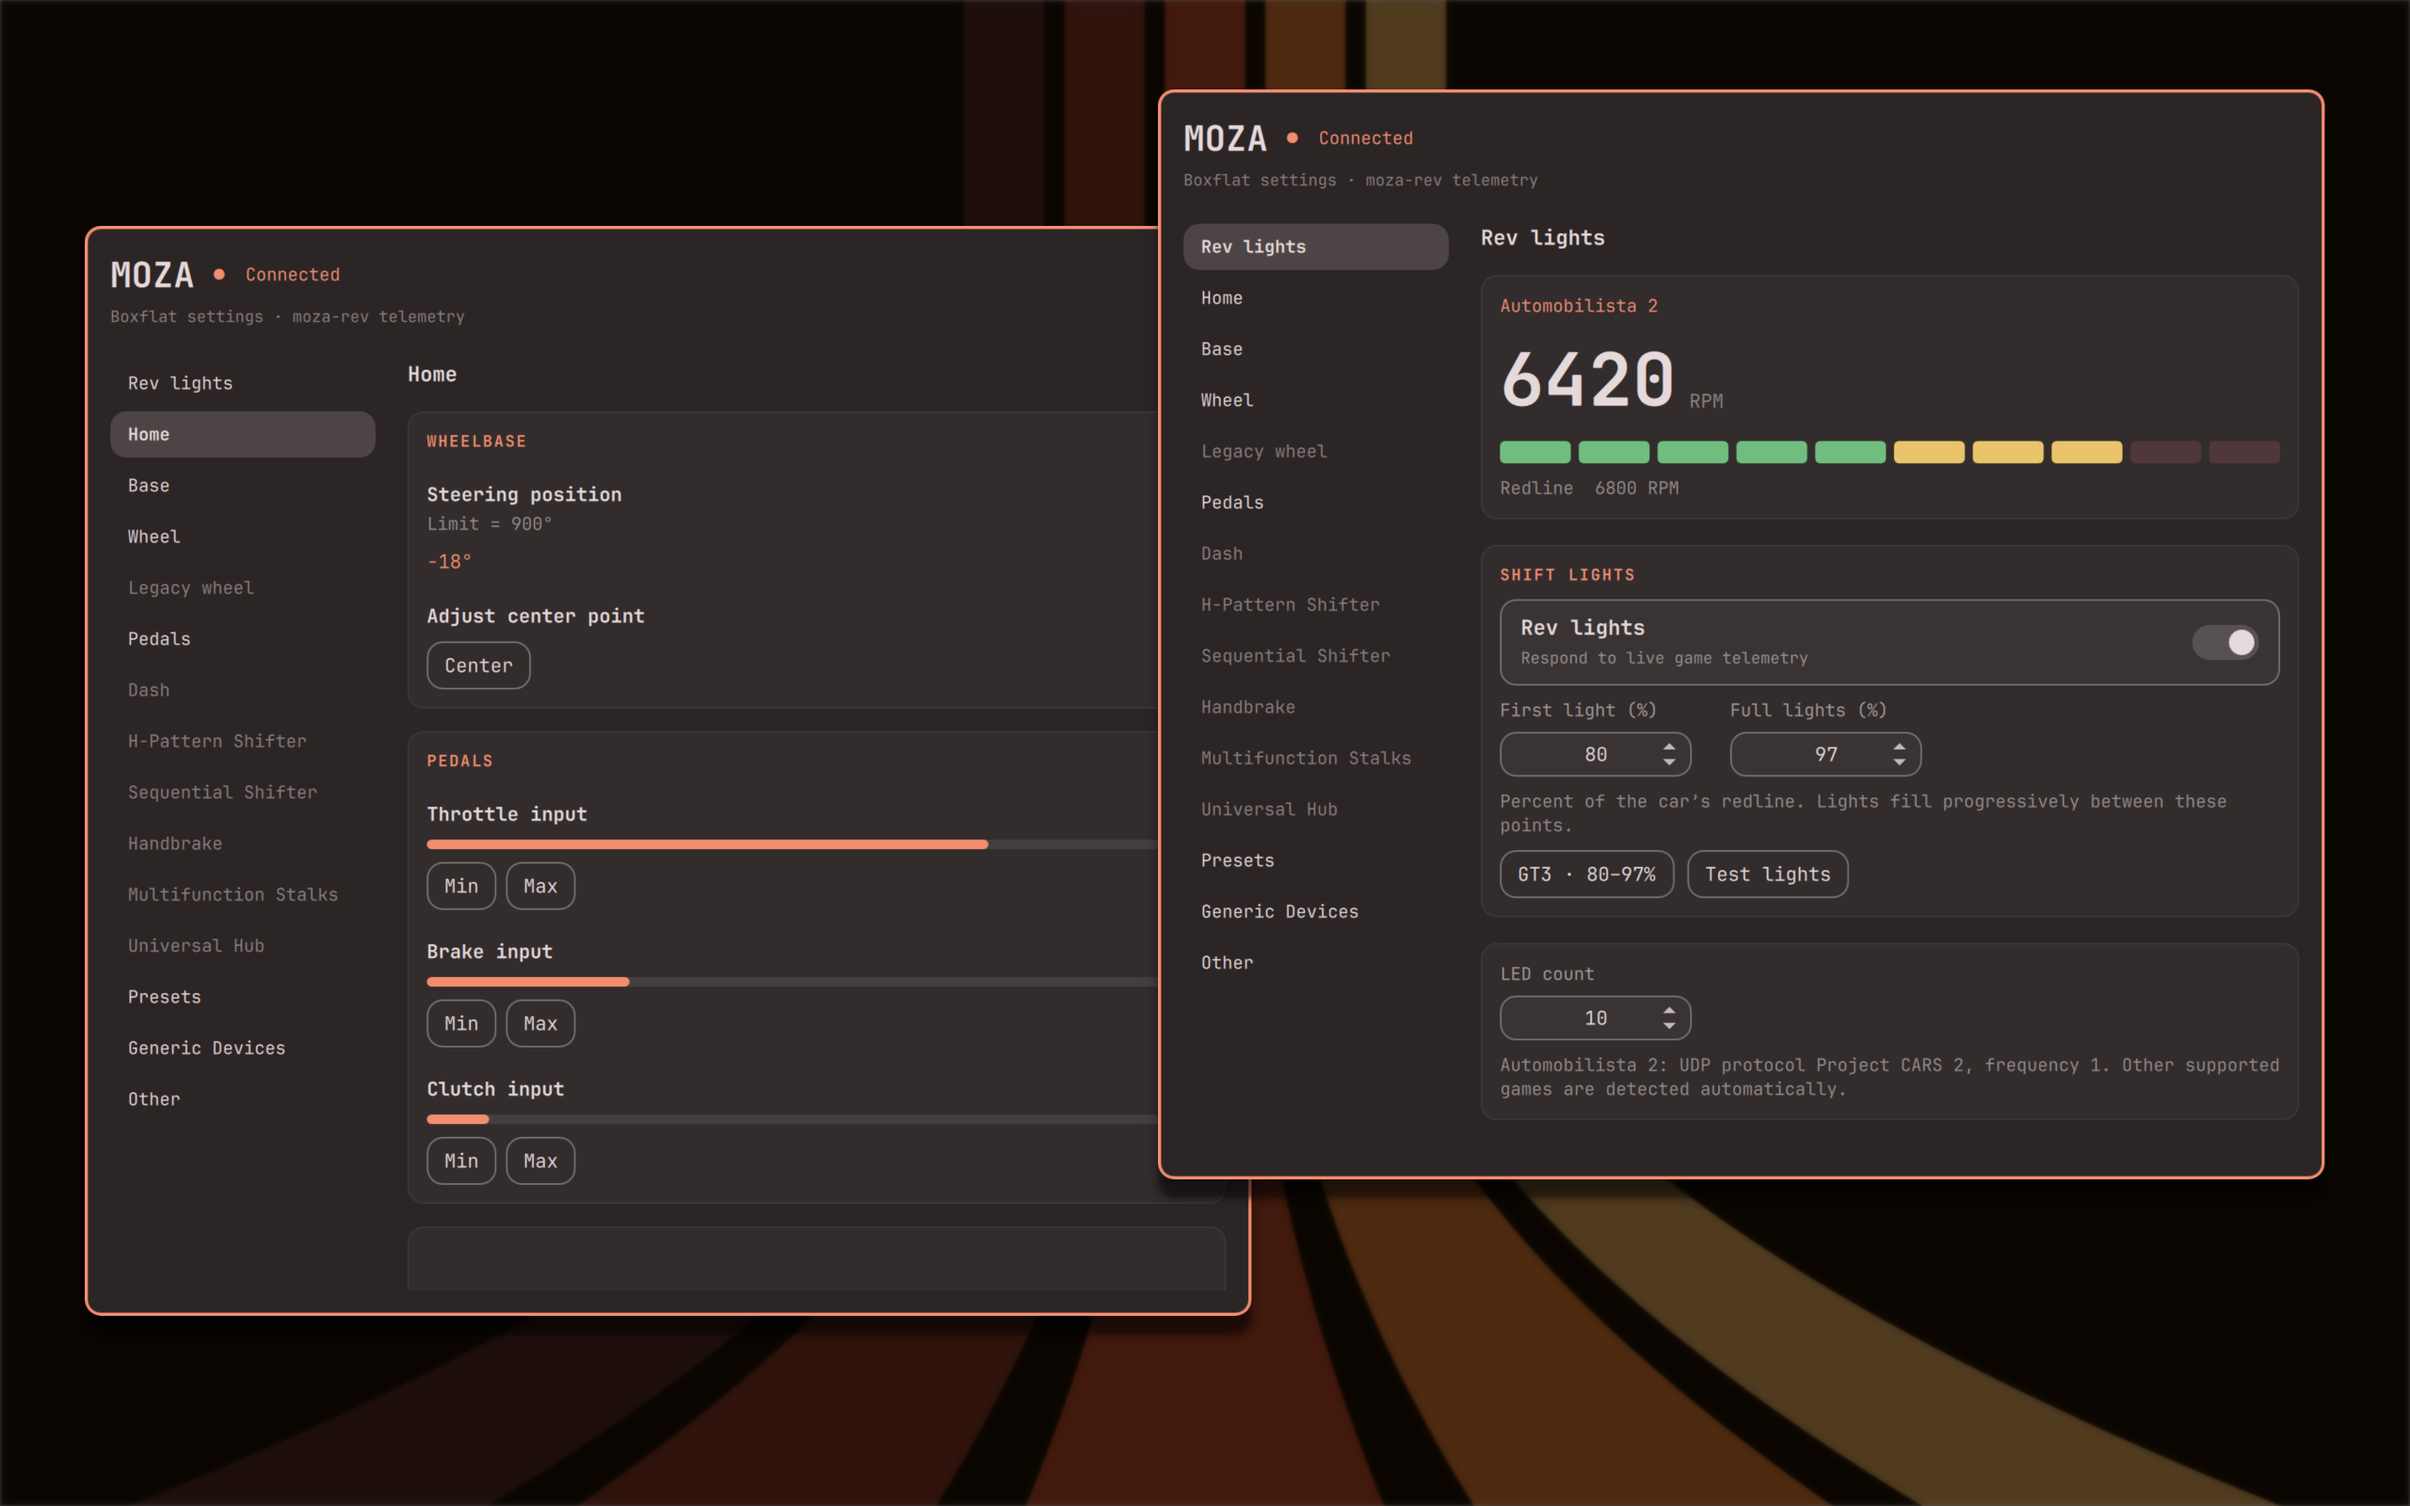
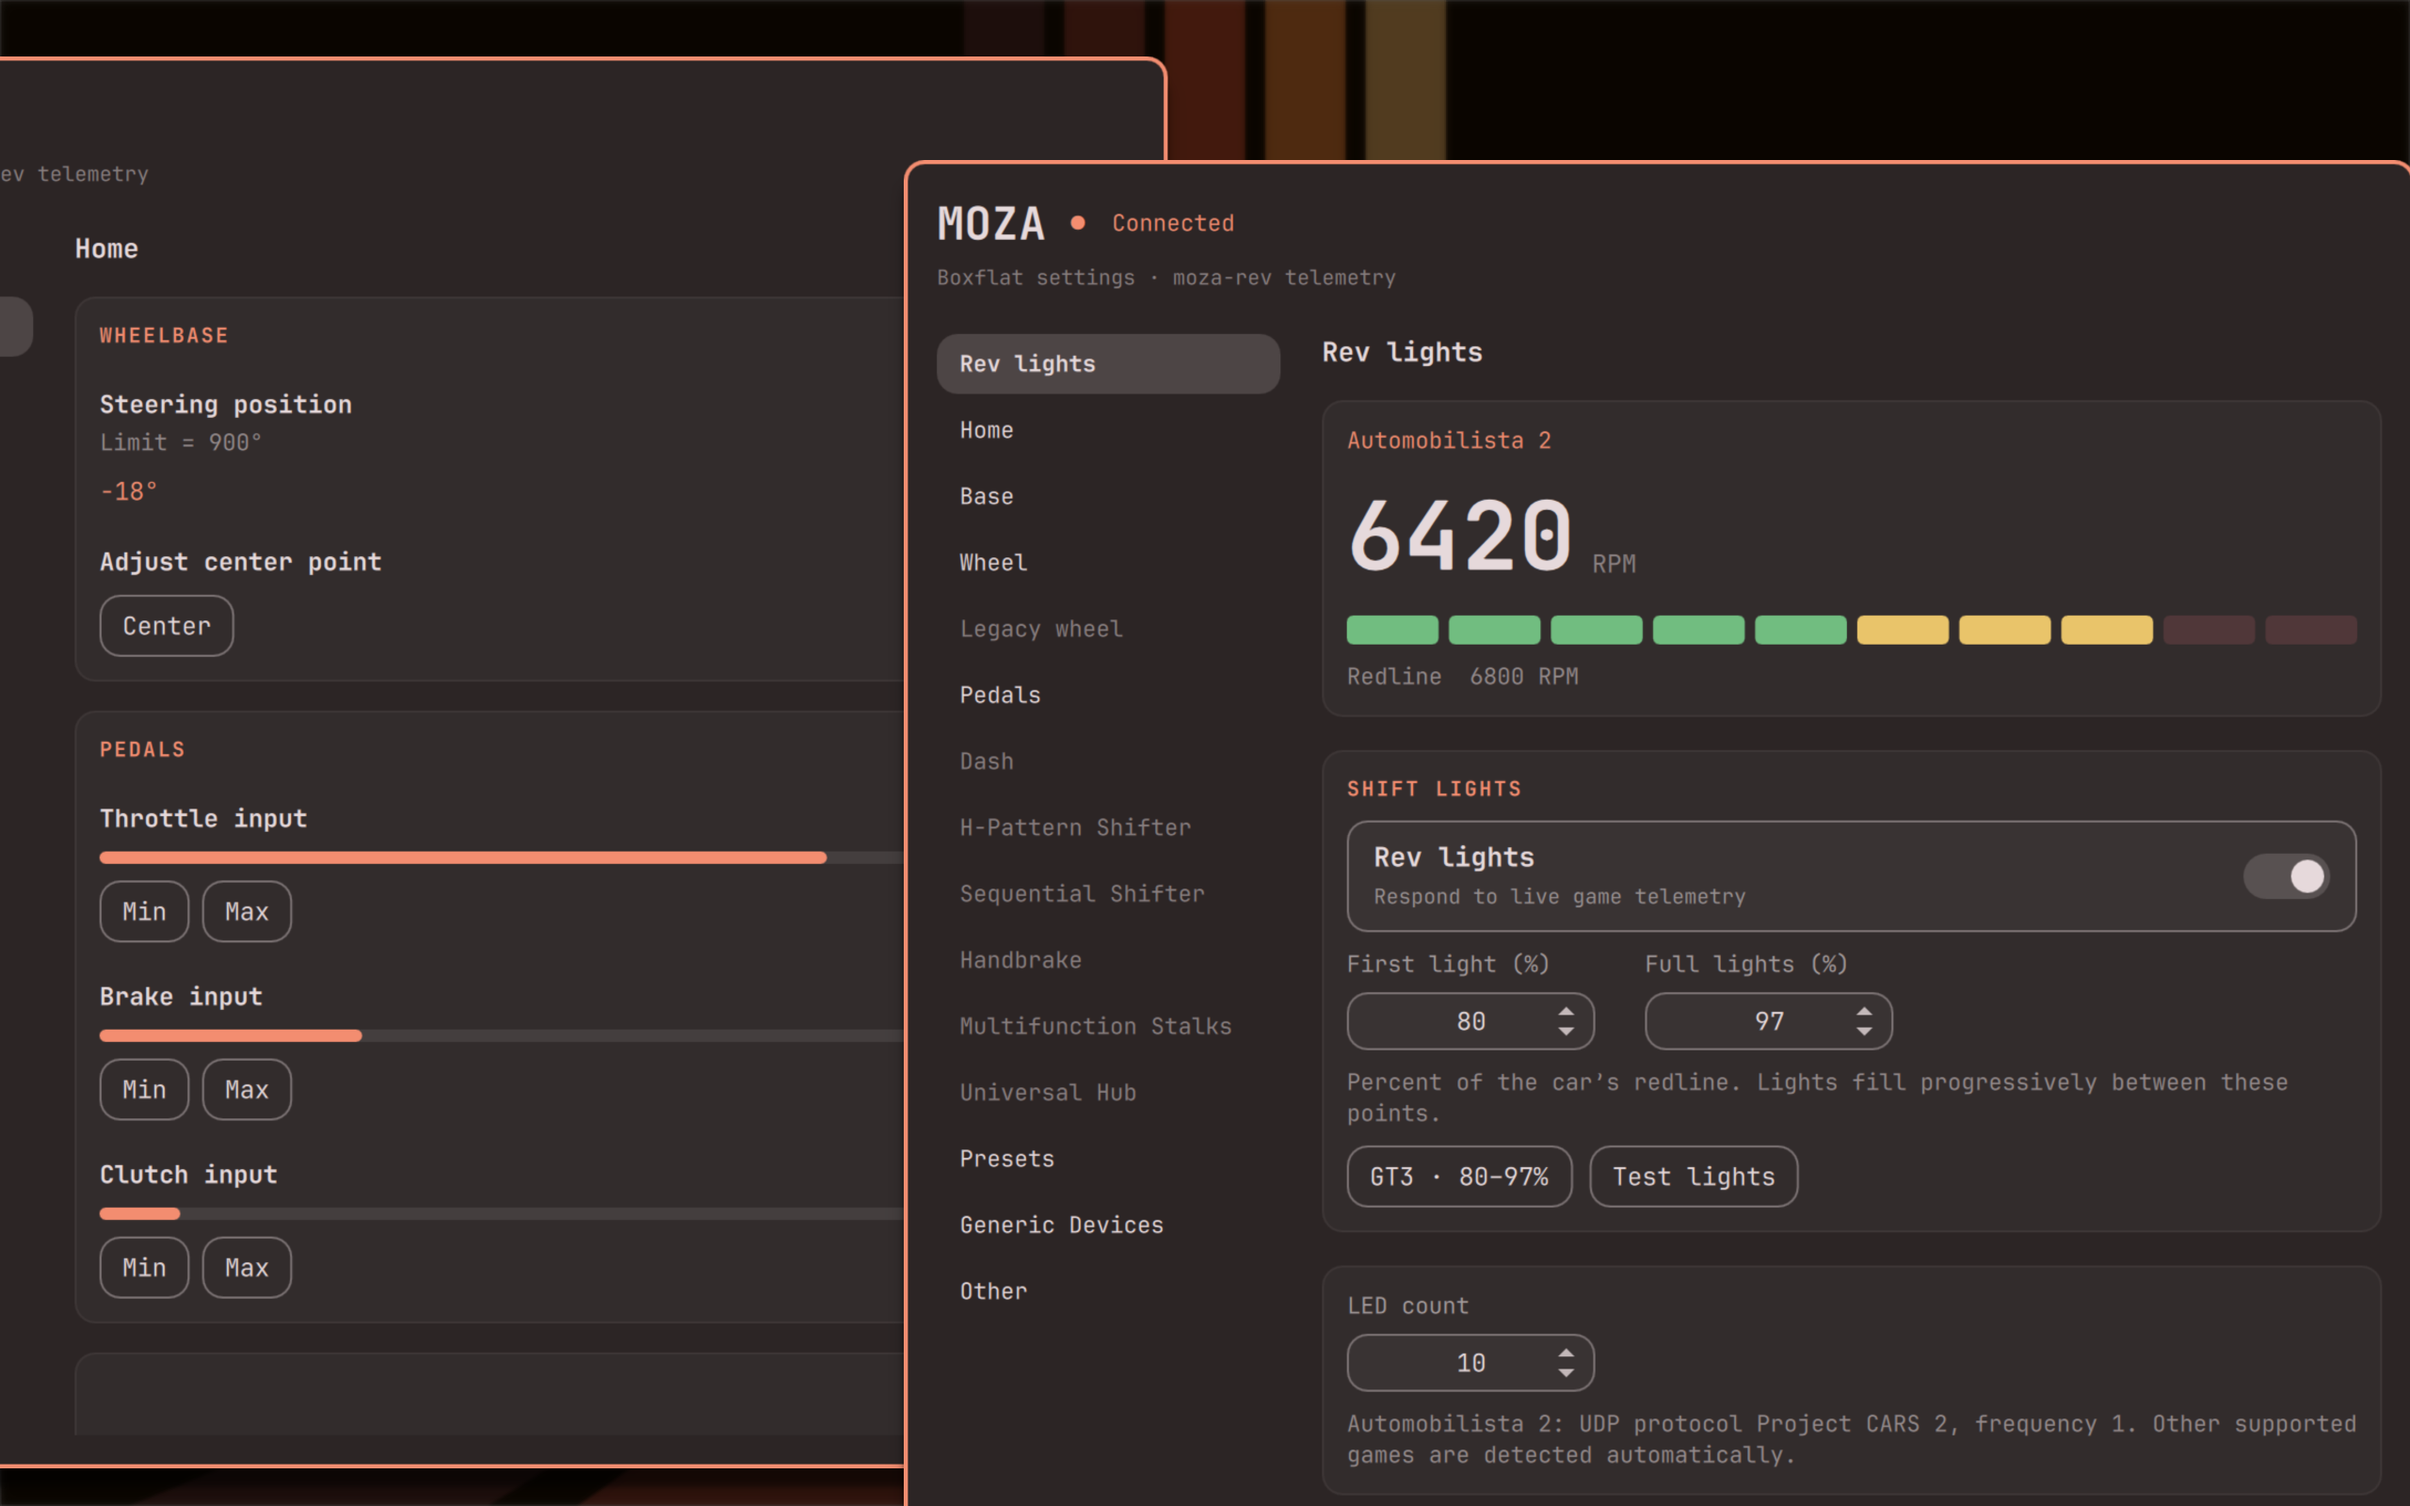
Zoom the marketplace preview in on the rev lights and pedal inputs

diff --git a/tools/capture/shell.qml b/tools/capture/shell.qml
@@ -66,16 +66,19 @@ ShellRoot {
         layer.effect: MultiEffect { blurEnabled: true; blurMax: 16; blur: 0.7 }
       }
       Rectangle { anchors.fill: parent; color: "#a6000000" }
+      // The marketplace card keeps only a wide strip from the middle and the
+      // websites crop to 16:9, so the panels run large, at 1.1x the capture,
+      // past the edges, with the RPM readout and pedal inputs mid-height.
       Image {
         id: inputs
-        x: 90; y: 240; width: 1240; height: 1158
+        x: -365; y: 60; width: 1606; height: 1500
         source: preview.visible ? Quickshell.env("MOZA_OUTPUT") + "/inputs.png" : ""
         fillMode: Image.PreserveAspectFit
         layer.enabled: true
         layer.effect: MultiEffect { shadowEnabled: true; shadowBlur: 0.8; shadowOpacity: 0.6; shadowVerticalOffset: 20 }
       }
       Image {
-        x: 1230; y: 95; width: 1240; height: 1158
+        x: 960; y: 170; width: 1606; height: 1500
         source: preview.visible ? Quickshell.env("MOZA_OUTPUT") + "/rev-lights.png" : ""
         fillMode: Image.PreserveAspectFit
         layer.enabled: true

diff --git a/docs/Screenshots.md b/docs/Screenshots.md
@@ -3,8 +3,9 @@
 `preview.png` is a composition of the real Home and Rev lights panels. The
 individual captures are in `screenshots/`. All use production QML controls,
 Omarchy's Ristretto palette, JetBrainsMono Nerd Font, and 10 px corner rounding.
-The arrangement follows the marketplace preview of
-[omarchy-hyprmoncfg](https://github.com/crmne/omarchy-hyprmoncfg).
+The marketplace card shows only a wide strip from the middle and the websites
+crop to 16:9, so the panels are shown at 1.1x the capture and run off the
+edges, with the RPM readout, rev lights and pedal inputs at mid-height.
 
 The capture host uses Boxflat's existing demo model to build the settings
 pages. Fixtures supply 6,420 RPM against a 6,800 RPM redline, eight illuminated
